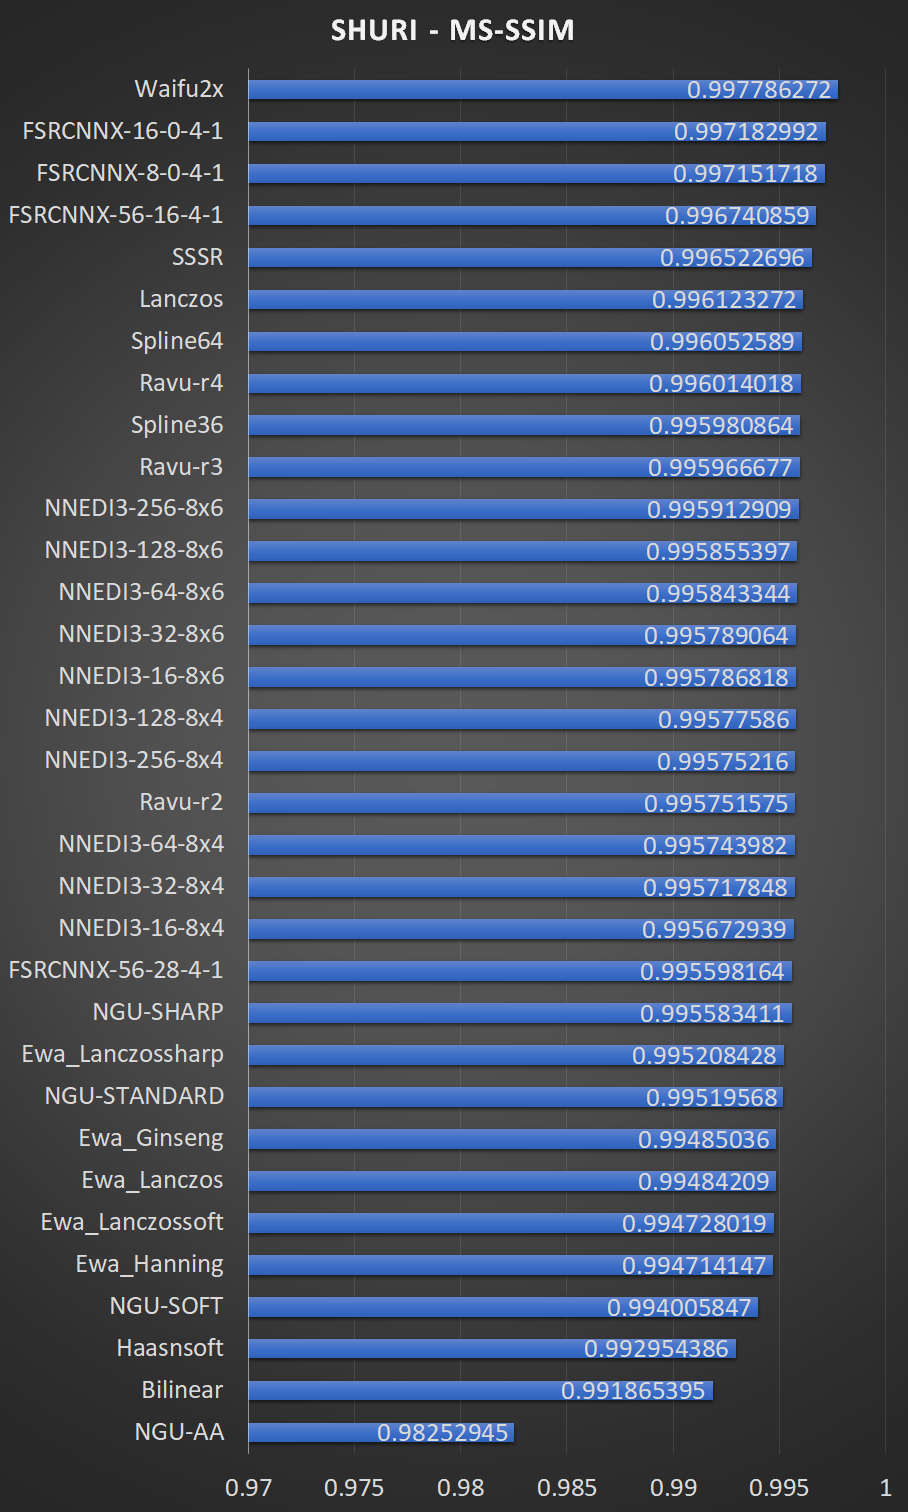
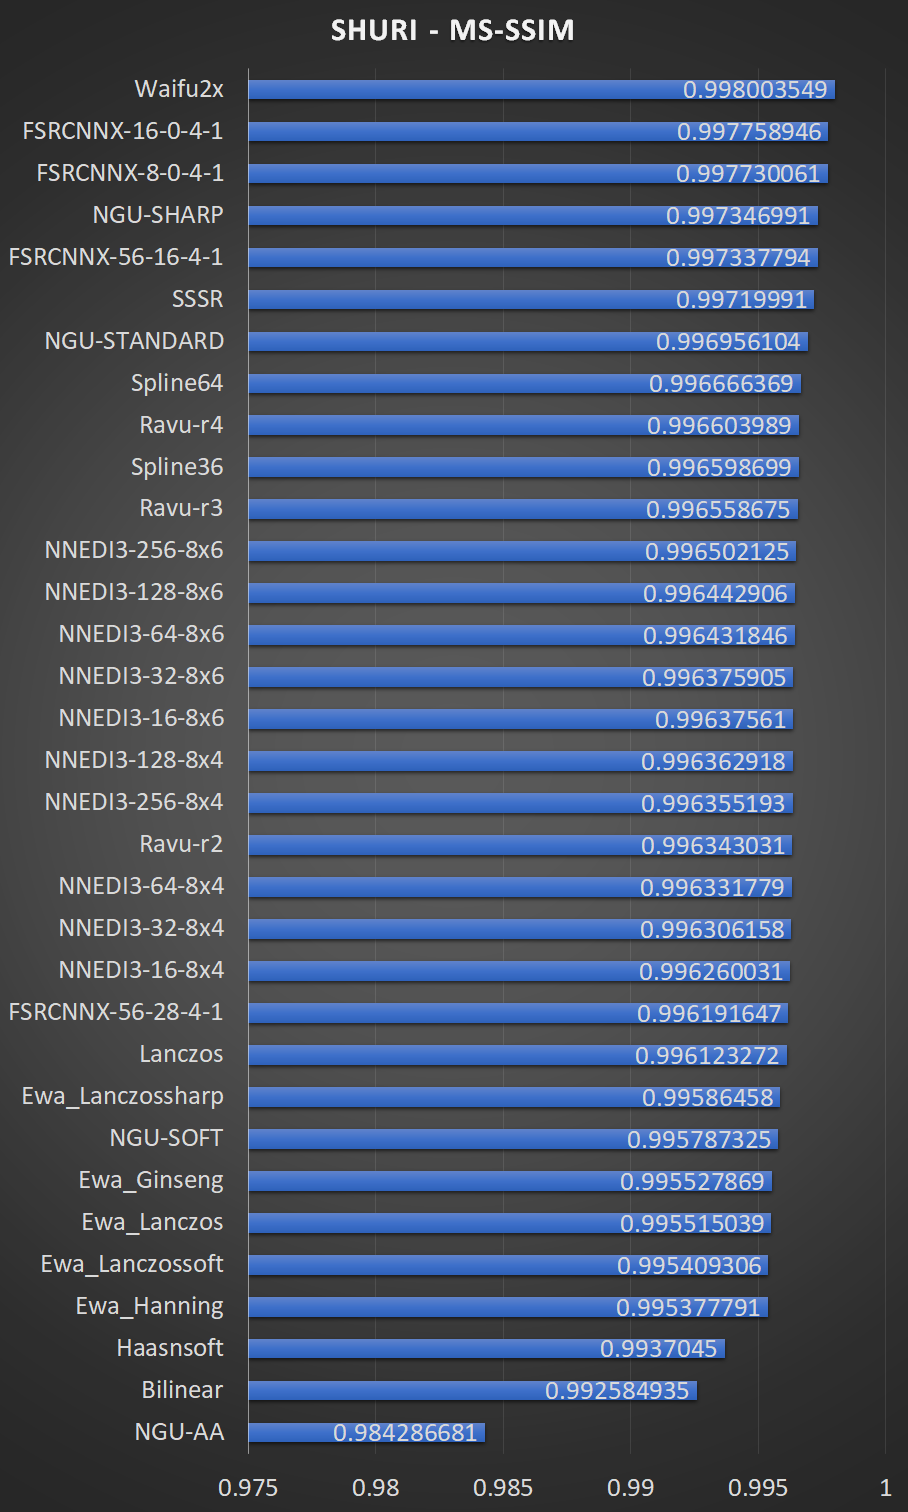
RGB -> Greyscale conversion fixed on MS-SSIM results

diff --git a/mpv_upscaling.html b/mpv_upscaling.html
@@ -35,6 +35,9 @@
             the shaders from <a href="https://github.com/bjin/mpv-prescalers">bjin</a> and <a href="https://github.com/igv/FSRCNN-TensorFlow/releases">igv (FSRCNNX)</a>/<a href="https://gist.github.com/igv">igv (SSSR)</a>.
         </p>
         <p>
+            UPDATE - 19/02/2019: MS-SSIM tables fixed, code had issues with RGB -> greyscale conversion. 
+        </p>
+        <p>
             UPDATE - 18/02/2019: Lanczos added, and tables now display results from best to worst.
         </p>
         <p>
